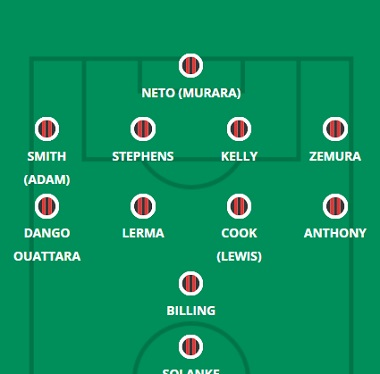
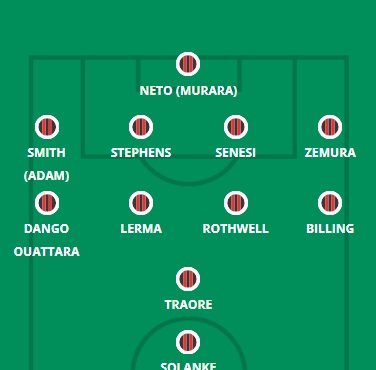
12-20

diff --git a/bourne.html b/bourne.html
@@ -63,15 +63,15 @@
     <hgroup>
         <h1> Provável Escalação</h1>
         <h2 class="direita"> por FabioVascão </h2>
-        <h3 class="direita"> Atualizado em 03/Fevereiro/2023 </h3>
+        <h3 class="direita"> Atualizado em 03/Março/2023 </h3>
     </hgroup>
 
     <div class="selecao"><p><b><img src="images/logos/bourne.png" width="100rem" height="100rem"/> Bournemouth</b></p></div>
        
     <div class="escalacao">
         <div class="topo">
-            <h2 class="titulo">Ultimas Notícias</h2> <h4><p> David Brooks (coxa), Ryan Fredericks (desconhecido) e Junior Stanislas (desconhecido) permanecem de fora, mas há uma chance de que os Cherries possam receber de volta alguns ou todos Dominic Solanke (joelho), Lewis Cook (joelho), Marcus Tavernier (coxa ) e Philip Billing (músculo), com Solanke e Tavernier confirmados como estando de volta à grama e todos os quatro mencionados quando Gary O'Neil falou sobre "ser capaz de colocá-los de volta no elenco da jornada". A ausência de Tavernier provavelmente o torna o menos provável para começar, e Dango Ouattara e Jaidon Anthony impressionaram contra o Nottingham Forest há quinze dias, em qualquer caso. Joe Rothwell, Ryan Christie e Kieffer Moore parecem os prováveis pesos se Cook, Billing e Solanke estiverem realmente em forma, mas O'Neil ficará cauteloso em fazer muitas mudanças depois de uma exibição melhor contra Forest, especialmente na defesa.</p></h4><br>
-            <h4><strong>Dúvidas:</strong> Brooks, Fredericks, Stanislas, Cook, Billing, Solanke e Tavernier.</h4>
+            <h2 class="titulo">Ultimas Notícias</h2> <h4><p> Lewis Cook (joelho) retorna à equipe neste fim de semana, mas David Brooks (coxa), Lloyd Kelly (panturrilha), Illia Zabarnyi (tornozelo) e Marcus Tavernier (coxa) permanecem indisponíveis, apesar de seus retornos de lesão estarem cada vez mais próximos. Matias Vina (joelho) e Junior Stanislas (batida) ficaram de fora com problemas no fim de semana passado, enquanto relatos sugeriam que eles também não voltariam aos Emirados. Gary O'Neil voltou-se para uma configuração de cinco defesas mais defensiva no último sábado, mas as tentativas de impedir o Manchester City acabaram falhando, com o atual campeão marcando quatro gols contra o Cherries nos primeiros 51 minutos. O'Neil pode ficar tentado a voltar ao sistema 4-4-1-1 que o vinha servindo muito bem antes da derrota na semana 25, sacrificando o meio-campo excedente em Chris Mepham e reintegrando Jaidon Anthony no flanco esquerdo ou movendo Philip Billing para longe. Se Billing repetir o papel que assumiu nas semanas 16 e 18, haverá espaço para Cook ou Joe Rothwell no meio do parque. Tem sido um time bastante equilibrado ultimamente (10 jogadores começaram cada um nos últimos três jogos), mas O'Neil tem nomes como Antoine Semenyo, Kieffer Moore e Ryan Christie esperando nos bastidores, caso ele sinta a necessidade de ajustar ainda mais o time.</p></h4><br>
+            <h4><strong>Dúvidas:</strong> Brooks, Stanislas, Kelly, Zabarnyi, Viña e Tavernier.</h4>
         </div>
         <aside>
             <figure>

diff --git a/chelsea.html b/chelsea.html
@@ -63,7 +63,7 @@
     <hgroup>
         <h1> Provável Escalação</h1>
         <h2 class="direita"> por FabioVascão </h2>
-        <h3 class="direita"> Atualizado em 03/Fevereiro/2023 </h3>
+        <h3 class="direita"> Atualizado em 03/Março/2023 </h3>
     </hgroup>
 
     <div class="selecao"><p><b><img src="images/logos/chelsea.png" width="100rem" height="100rem"/> Chelsea</b></p></div>
@@ -71,7 +71,7 @@
     <div class="escalacao">
         <div class="topo">
             <h2 class="titulo">Ultimas Notícias</h2> <h4><p> Denis Zakaria (coxa), Armando Broja (LCA), Christian Pulisic (joelho), Mateo Kovacic (panturrilha), Edouard Mendy (dedo), N'Golo Kante (coxa), João Felix (suspenso) e Wesley Fofana (joelho) permanecem Fora, mas Raheem Sterling (coxa), Reece James (joelho) e Ben Chilwell (coxa) estão de volta ao time, embora não estejam prontos por 90 minutos, de acordo com o técnico. Isso ainda pode significar um começo e uma substituição precoce para qualquer um/todos do trio, mas dado o que aconteceu com James na última vez em seu jogo de retorno abortado e a duração da ausência de Chilwell em particular, Graham Potter pode proceder com cautela. Hakim Ziyech está tecnicamente disponível para a seleção, mas como está seu estado mental é outra questão após a transferência abortada para o PSG no último dia, enquanto Ruben Loftus-Cheek foi outro jogador agrupado com Sterling, James e Chilwell por não estar pronto para jogar pela seleção. totalidade de um jogo. Com dúvidas também sobre se o recorde de compra Enzo Fernandez será registrado a tempo para a partida de sexta-feira, os jovens Lewis Hall e Carney Chukwuemeka podem entrar na conversa da sala de máquinas junto com Conor Gallagher. Mykhailo Mudryk estará em forma quinzenal e certamente chamou a atenção em uma participação especial impressionante em Anfield, uma partida na qual o Chelsea impressionou no geral e teve um bom valor por não sofrer golos - então Potter pode resistir ao impulso de mexer demais na defesa contra os Cottagers.</p></h4><br>
-            <h4><strong>Dúvidas:</strong> Broja, Kovacic,Fofana, James (Reece), Kanté, Mendy (Edouard), Pulisic, Zakaria e João Felix. </h4>
+            <h4><strong>Dúvidas:</strong> Broja, Azplicueta, Kovacic, James (Reece), Kanté, Mendy (Edouard) e Mount. </h4>
         </div>
         <aside>
             <figure>
